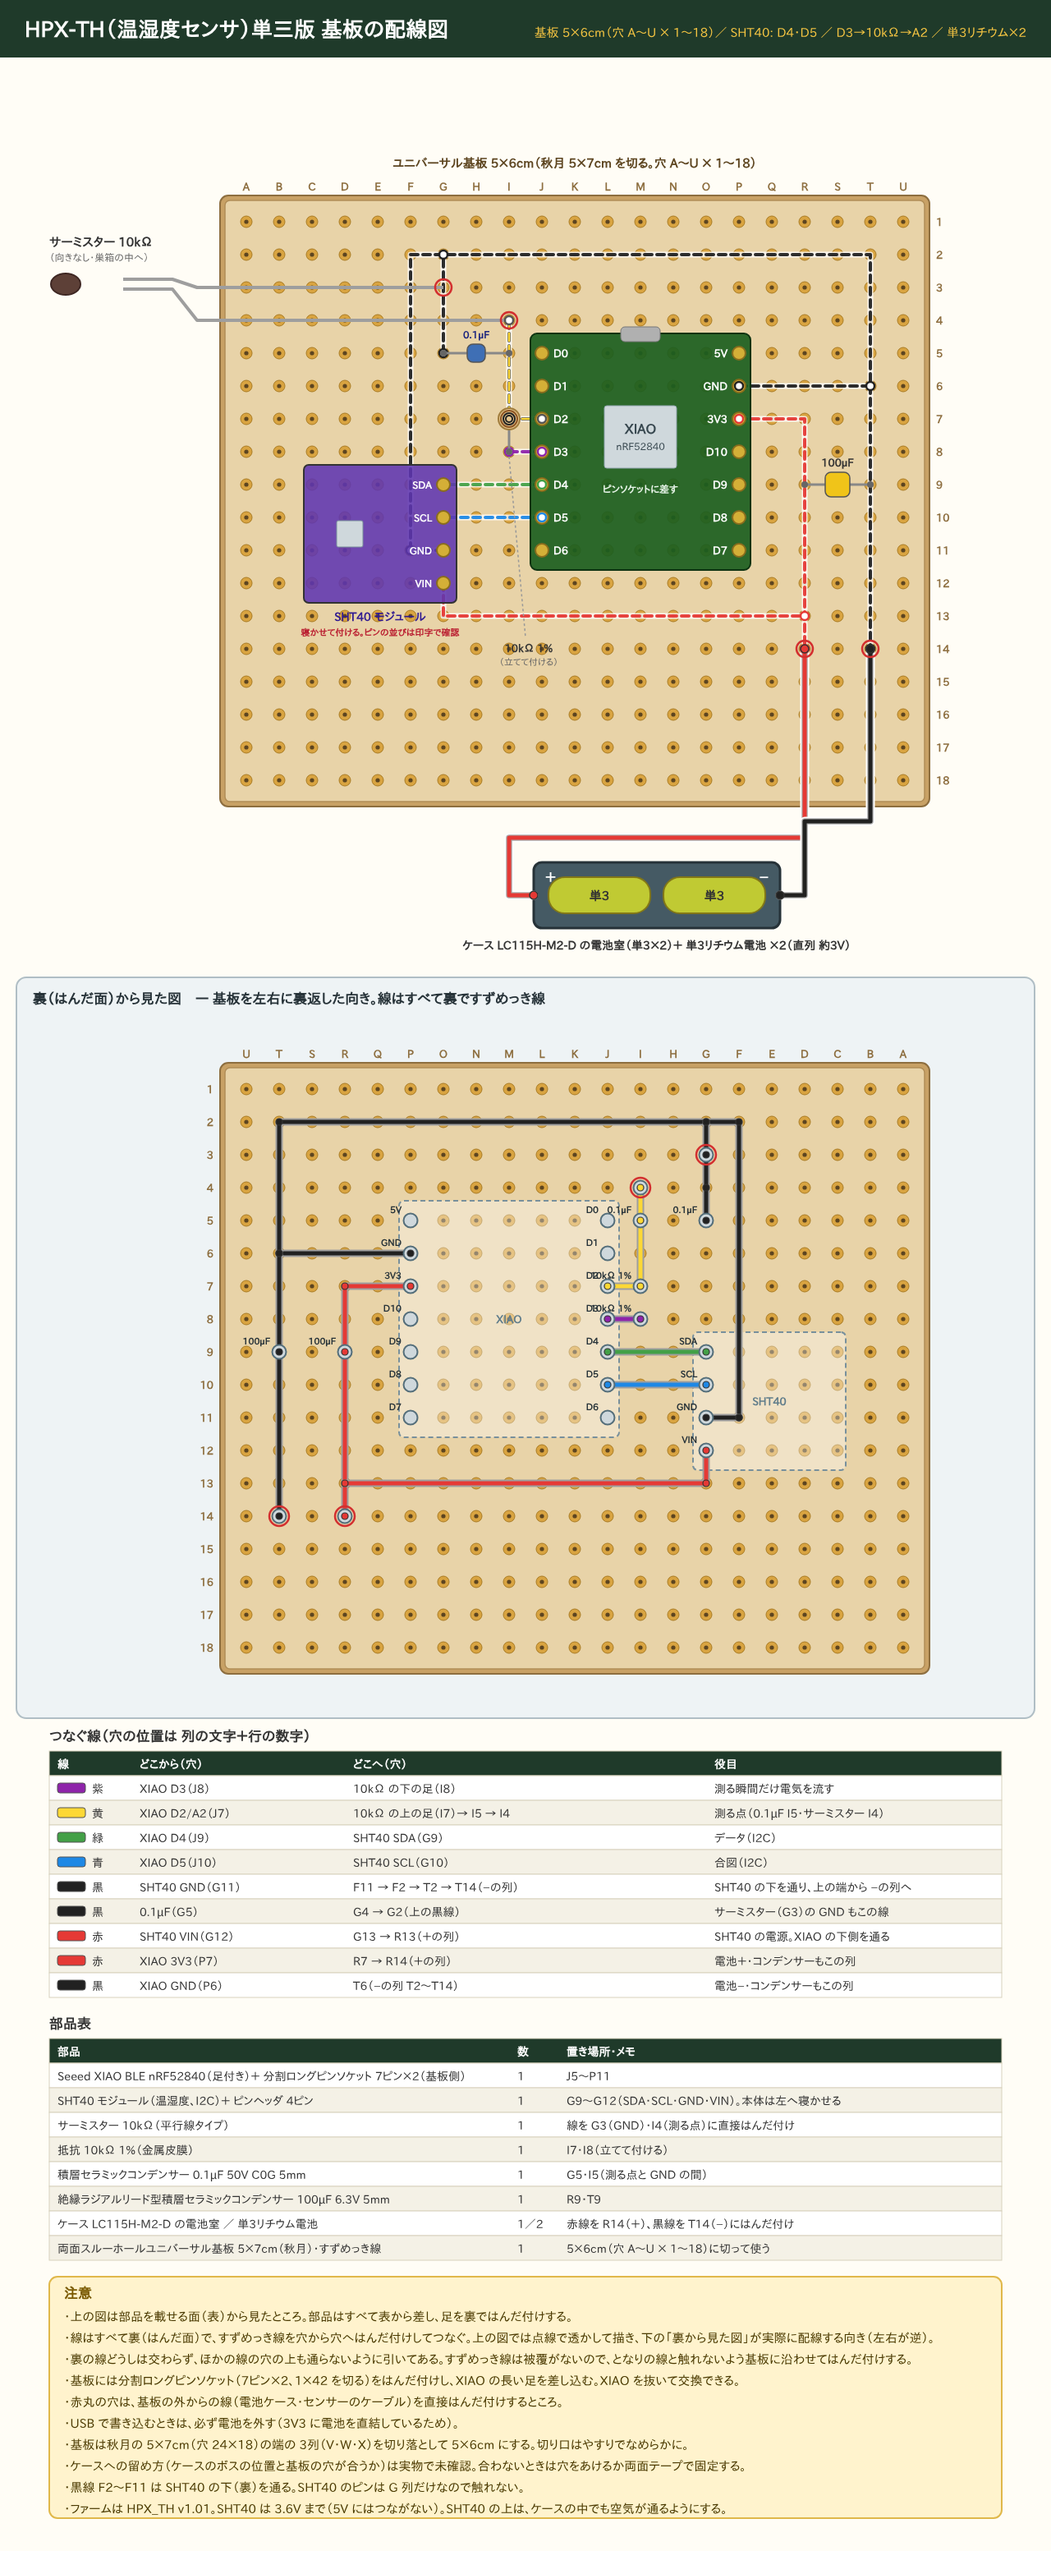
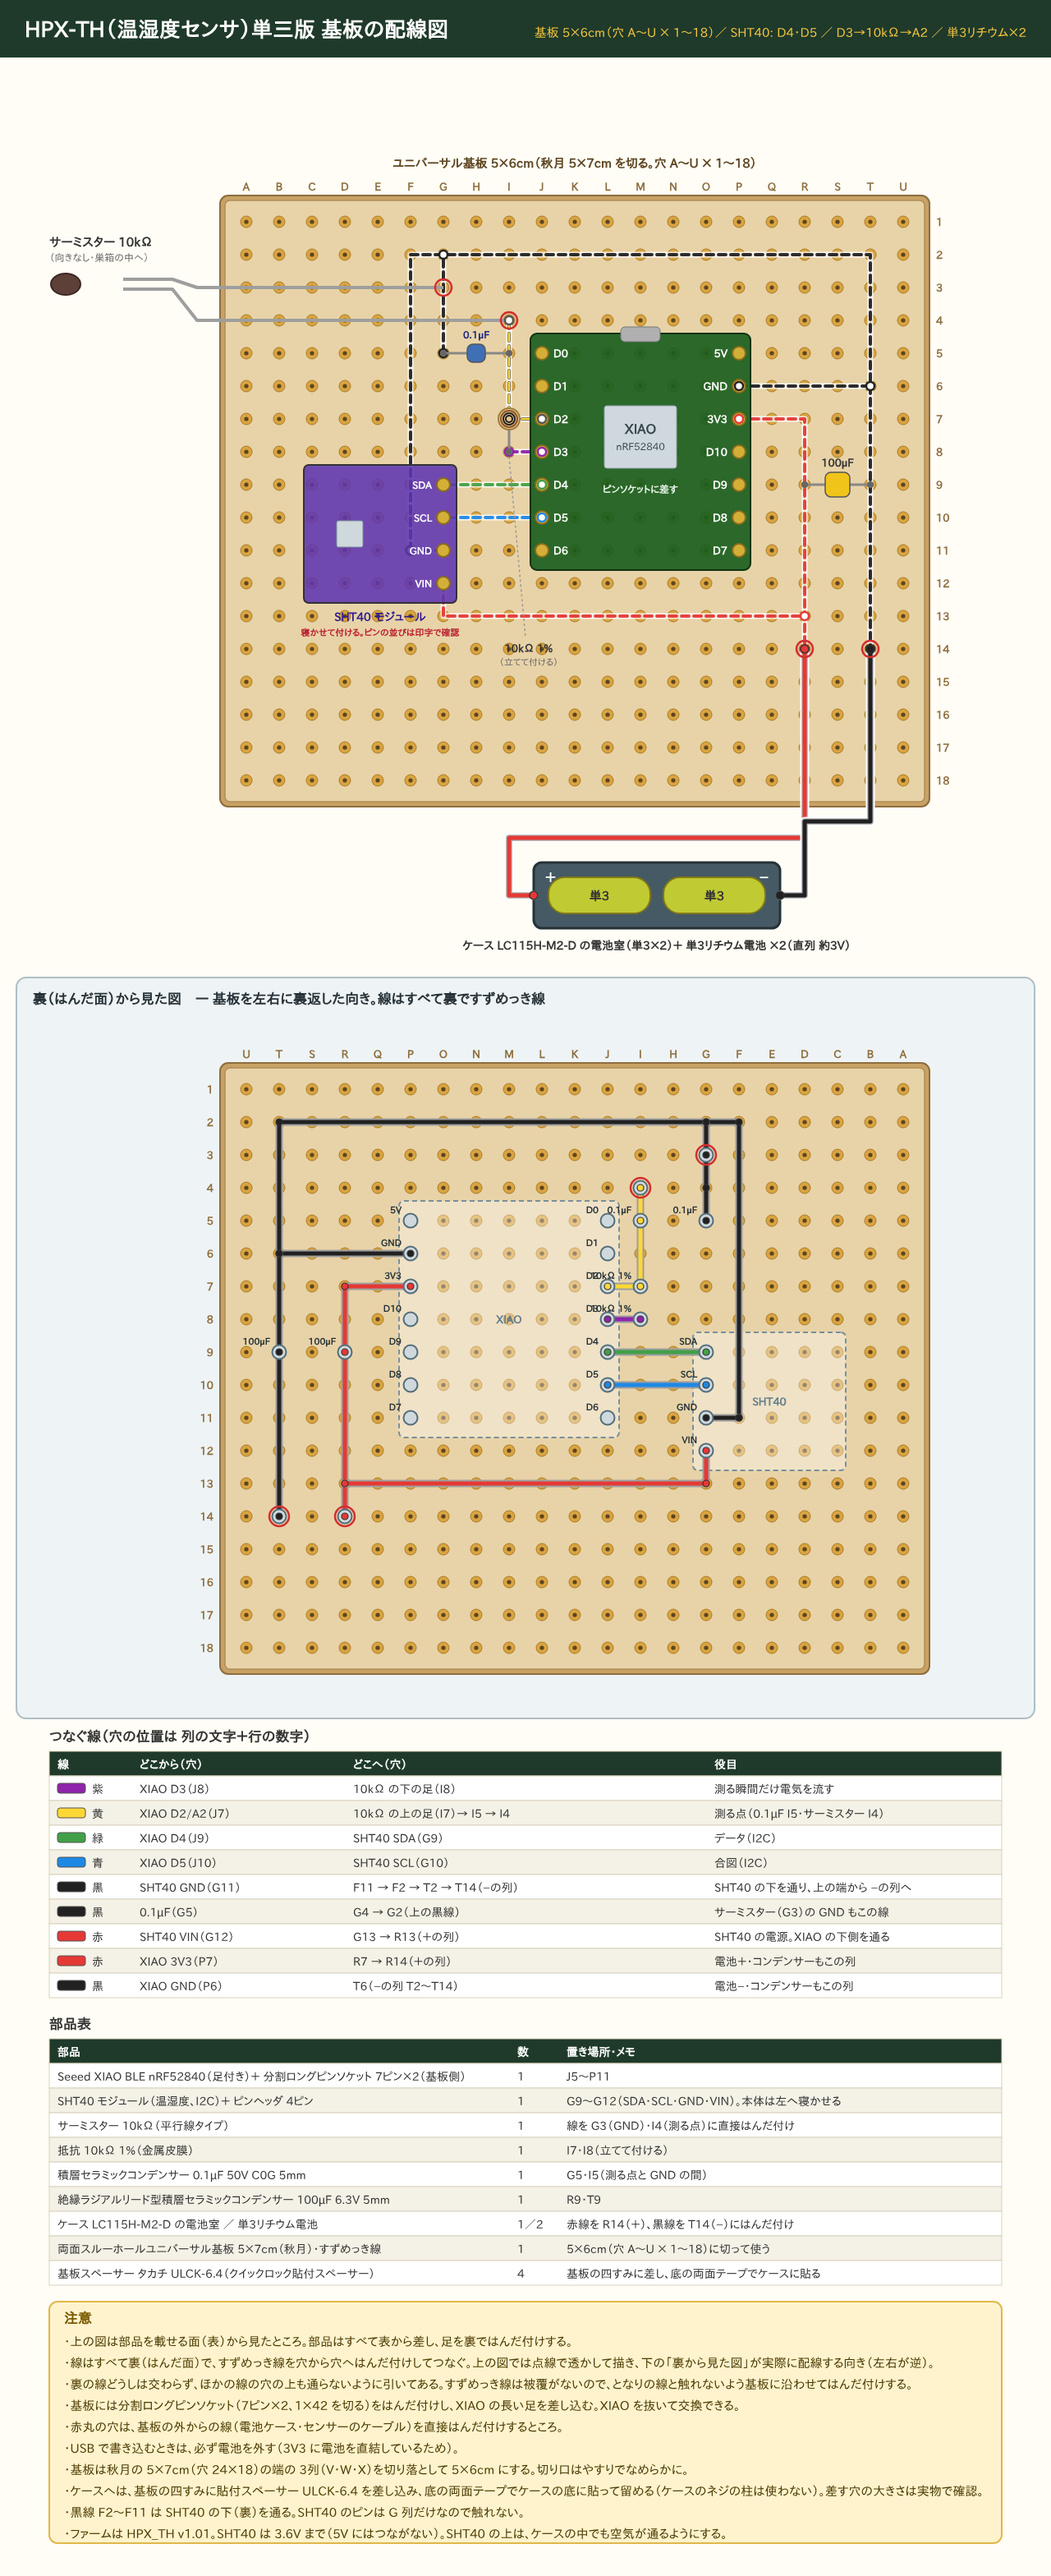
HPX-TH 単三版: 基板スペーサー ULCK-6.4 (4個) を部品表に追加し、ケースへの留め方の注意を直す
Claude-Session: https://claude.ai/code/session_01LCC9B3RT3YBRQG5eXp3UZv

Changed region(s): [[0.0312, 0.0625, 0.9688, 0.9994]]

diff --git a/site/device-th.html b/site/device-th.html
@@ -264,8 +264,10 @@ SHT31・SHT41 なども使えます</span><span class="price">2,100円 / 5個入
         <tr><td class="part"><b><a href="https://akizukidenshi.com/catalog/g/g108550/" target="_blank" rel="noopener">抵抗 10kΩ</a></b><span>小型 金属皮膜抵抗 1/4W 10kΩ (100本入り)</span><span class="price">300円 / 100本入り</span></td><td class="shop">秋月電子通商</td><td class="n" data-v="数">1</td></tr>
         <tr><td class="part"><b><a href="https://akizukidenshi.com/catalog/g/g105779/" target="_blank" rel="noopener">ピンソケット（メス）</a></b><span>分割ロングピンソケット 1×42 (42P)</span><span class="price">80円 / 42PIN</span></td><td class="shop">秋月電子通商</td><td class="n" data-v="数">7PIN×2</td></tr>
         <tr><td class="part"><b><a href="https://www.amazon.co.jp/s?k=%E3%82%B9%E3%82%BA%E3%83%A1%E3%83%83%E3%82%AD%E7%B7%9A%20TCW%200.5mm%2010m" target="_blank" rel="noopener">ジャンパー線</a></b><span>スズメッキ軟銅線 TCW 0.5mm 10m</span><span class="price">670円 / 10m</span></td><td class="shop">amazon</td><td class="n" data-v="数">適宜</td></tr>
+        <tr class="cat"><th colspan="3">部材</th></tr>
+        <tr><td class="part"><b><a href="https://www.monotaro.com/p/5102/3929/" target="_blank" rel="noopener">基板スペーサー クイックロック貼付スペーサー ULCKシリーズ</a></b><span>タカチ　ULCK-6.4</span><span class="price">119円 / 4個入り</span></td><td class="shop">モノタロウ</td><td class="n" data-v="数">4</td></tr>
         </tbody>
-        <tfoot><tr><td class="part">部品代の目安 (1台分)</td><td class="shop"></td><td class="n" data-v="数">約 3,635円</td></tr></tfoot>
+        <tfoot><tr><td class="part">部品代の目安 (1台分)</td><td class="shop"></td><td class="n" data-v="数">約 3,754円</td></tr></tfoot>
       </table>
       <p class="legend">部品代の目安は、まとめ買いの値段を1台に使う分で割ったものです。「適宜」の部品と送料は入っていません。</p>
       </div>
@@ -302,9 +304,9 @@ SHT31・SHT41 なども使えます</span><span class="price">2,100円 / 5個入
       </table></div></div>
       <div class="wtab"><h3>部品の置き場所</h3><div class="scroll"><table>
         <thead><tr><th>部品</th><th>数</th><th>置き場所・メモ</th></tr></thead>
-        <tbody><tr><td>Seeed XIAO BLE nRF52840（足付き）＋ 分割ロングピンソケット 7ピン×2（基板側）</td><td>1</td><td>J5〜P11</td></tr><tr><td>SHT40 モジュール（温湿度、I2C）＋ ピンヘッダ 4ピン</td><td>1</td><td>G9〜G12（SDA・SCL・GND・VIN）。本体は左へ寝かせる</td></tr><tr><td>サーミスター 10kΩ（平行線タイプ）</td><td>1</td><td>線を G3（GND）・I4（測る点）に直接はんだ付け</td></tr><tr><td>抵抗 10kΩ 1%（金属皮膜）</td><td>1</td><td>I7・I8（立てて付ける）</td></tr><tr><td>積層セラミックコンデンサー 0.1µF 50V C0G 5mm</td><td>1</td><td>G5・I5（測る点と GND の間）</td></tr><tr><td>絶縁ラジアルリード型積層セラミックコンデンサー 100µF 6.3V 5mm</td><td>1</td><td>R9・T9</td></tr><tr><td>ケース LC115H-M2-D の電池室 ／ 単3リチウム電池</td><td>1／2</td><td>赤線を R14（＋）、黒線を T14（−）にはんだ付け</td></tr><tr><td>両面スルーホールユニバーサル基板 5×7cm（秋月）・すずめっき線</td><td>1</td><td>5×6cm（穴 A〜U × 1〜18）に切って使う</td></tr></tbody>
+        <tbody><tr><td>Seeed XIAO BLE nRF52840（足付き）＋ 分割ロングピンソケット 7ピン×2（基板側）</td><td>1</td><td>J5〜P11</td></tr><tr><td>SHT40 モジュール（温湿度、I2C）＋ ピンヘッダ 4ピン</td><td>1</td><td>G9〜G12（SDA・SCL・GND・VIN）。本体は左へ寝かせる</td></tr><tr><td>サーミスター 10kΩ（平行線タイプ）</td><td>1</td><td>線を G3（GND）・I4（測る点）に直接はんだ付け</td></tr><tr><td>抵抗 10kΩ 1%（金属皮膜）</td><td>1</td><td>I7・I8（立てて付ける）</td></tr><tr><td>積層セラミックコンデンサー 0.1µF 50V C0G 5mm</td><td>1</td><td>G5・I5（測る点と GND の間）</td></tr><tr><td>絶縁ラジアルリード型積層セラミックコンデンサー 100µF 6.3V 5mm</td><td>1</td><td>R9・T9</td></tr><tr><td>ケース LC115H-M2-D の電池室 ／ 単3リチウム電池</td><td>1／2</td><td>赤線を R14（＋）、黒線を T14（−）にはんだ付け</td></tr><tr><td>両面スルーホールユニバーサル基板 5×7cm（秋月）・すずめっき線</td><td>1</td><td>5×6cm（穴 A〜U × 1〜18）に切って使う</td></tr><tr><td>基板スペーサー タカチ ULCK-6.4（クイックロック貼付スペーサー）</td><td>4</td><td>基板の四すみに差し、底の両面テープでケースに貼る</td></tr></tbody>
       </table></div></div>
-      <div class="wnote"><h3>注意</h3><ul><li>上の図は部品を載せる面（表）から見たところ。部品はすべて表から差し、足を裏ではんだ付けする。</li><li>線はすべて裏（はんだ面）で、すずめっき線を穴から穴へはんだ付けしてつなぐ。上の図では点線で透かして描き、下の「裏から見た図」が実際に配線する向き（左右が逆）。</li><li>裏の線どうしは交わらず、ほかの線の穴の上も通らないように引いてある。すずめっき線は被覆がないので、となりの線と触れないよう基板に沿わせてはんだ付けする。</li><li>基板には分割ロングピンソケット（7ピン×2、1×42 を切る）をはんだ付けし、XIAO の長い足を差し込む。XIAO を抜いて交換できる。</li><li>赤丸の穴は、基板の外からの線（電池ケース・センサーのケーブル）を直接はんだ付けするところ。</li><li>USB で書き込むときは、必ず電池を外す（3V3 に電池を直結しているため）。</li><li>基板は秋月の 5×7cm（穴 24×18）の端の 3列（V・W・X）を切り落として 5×6cm にする。切り口はやすりでなめらかに。</li><li>ケースへの留め方（ケースのボスの位置と基板の穴が合うか）は実物で未確認。合わないときは穴をあけるか両面テープで固定する。</li><li>黒線 F2〜F11 は SHT40 の下（裏）を通る。SHT40 のピンは G 列だけなので触れない。</li><li>ファームは HPX_TH v1.01。SHT40 は 3.6V まで（5V にはつながない）。SHT40 の上は、ケースの中でも空気が通るようにする。</li></ul></div>
+      <div class="wnote"><h3>注意</h3><ul><li>上の図は部品を載せる面（表）から見たところ。部品はすべて表から差し、足を裏ではんだ付けする。</li><li>線はすべて裏（はんだ面）で、すずめっき線を穴から穴へはんだ付けしてつなぐ。上の図では点線で透かして描き、下の「裏から見た図」が実際に配線する向き（左右が逆）。</li><li>裏の線どうしは交わらず、ほかの線の穴の上も通らないように引いてある。すずめっき線は被覆がないので、となりの線と触れないよう基板に沿わせてはんだ付けする。</li><li>基板には分割ロングピンソケット（7ピン×2、1×42 を切る）をはんだ付けし、XIAO の長い足を差し込む。XIAO を抜いて交換できる。</li><li>赤丸の穴は、基板の外からの線（電池ケース・センサーのケーブル）を直接はんだ付けするところ。</li><li>USB で書き込むときは、必ず電池を外す（3V3 に電池を直結しているため）。</li><li>基板は秋月の 5×7cm（穴 24×18）の端の 3列（V・W・X）を切り落として 5×6cm にする。切り口はやすりでなめらかに。</li><li>ケースへは、基板の四すみに貼付スペーサー ULCK-6.4 を差し込み、底の両面テープでケースの底に貼って留める（ケースのネジの柱は使わない）。差す穴の大きさは実物で確認。</li><li>黒線 F2〜F11 は SHT40 の下（裏）を通る。SHT40 のピンは G 列だけなので触れない。</li><li>ファームは HPX_TH v1.01。SHT40 は 3.6V まで（5V にはつながない）。SHT40 の上は、ケースの中でも空気が通るようにする。</li></ul></div>
       </div>
       <div class="soonbox">組み立ての手順は、準備ができしだい掲載します。</div>
       <a class="back" href="devices.html">機器の一覧へ戻る</a>

diff --git a/hardware/wiring/gen_pcb.py b/hardware/wiring/gen_pcb.py
@@ -716,11 +716,12 @@ y = table(s, 60, y + 50, [
     ["絶縁ラジアルリード型積層セラミックコンデンサー 100µF 6.3V 5mm", "1", f"{hn(CP,8)}・{hn(CM,8)}"],
     ["ケース LC115H-M2-D の電池室 ／ 単3リチウム電池", "1／2", f"赤線を {hn(CP,13)}（＋）、黒線を {hn(CM,13)}（−）にはんだ付け"],
     ["両面スルーホールユニバーサル基板 5×7cm（秋月）・すずめっき線", "1", "5×6cm（穴 A〜U × 1〜18）に切って使う"],
+    ["基板スペーサー タカチ ULCK-6.4（クイックロック貼付スペーサー）", "4", "基板の四すみに差し、底の両面テープでケースに貼る"],
 ], [560, 60, 540], "部品表")
 XIAO_NOTE_LONG = "・基板には分割ロングピンソケット（7ピン×2、1×42 を切る）をはんだ付けし、XIAO の長い足を差し込む。XIAO を抜いて交換できる。"
 finish(s, y, [XIAO_NOTE_LONG if "ピンヘッダ（オス）" in n else n for n in COMMON_NOTES] + [
     "・基板は秋月の 5×7cm（穴 24×18）の端の 3列（V・W・X）を切り落として 5×6cm にする。切り口はやすりでなめらかに。",
-    "・ケースへの留め方（ケースのボスの位置と基板の穴が合うか）は実物で未確認。合わないときは穴をあけるか両面テープで固定する。",
+    "・ケースへは、基板の四すみに貼付スペーサー ULCK-6.4 を差し込み、底の両面テープでケースの底に貼って留める（ケースのネジの柱は使わない）。差す穴の大きさは実物で確認。",
     f"・黒線 {hn(5,1)}〜{hn(5,10)} は SHT40 の下（裏）を通る。SHT40 のピンは {COLS[6]} 列だけなので触れない。",
     "・ファームは HPX_TH v1.01。SHT40 は 3.6V まで（5V にはつながない）。SHT40 の上は、ケースの中でも空気が通るようにする。",
 ], "HPX-TH_AA_pcb.svg")
